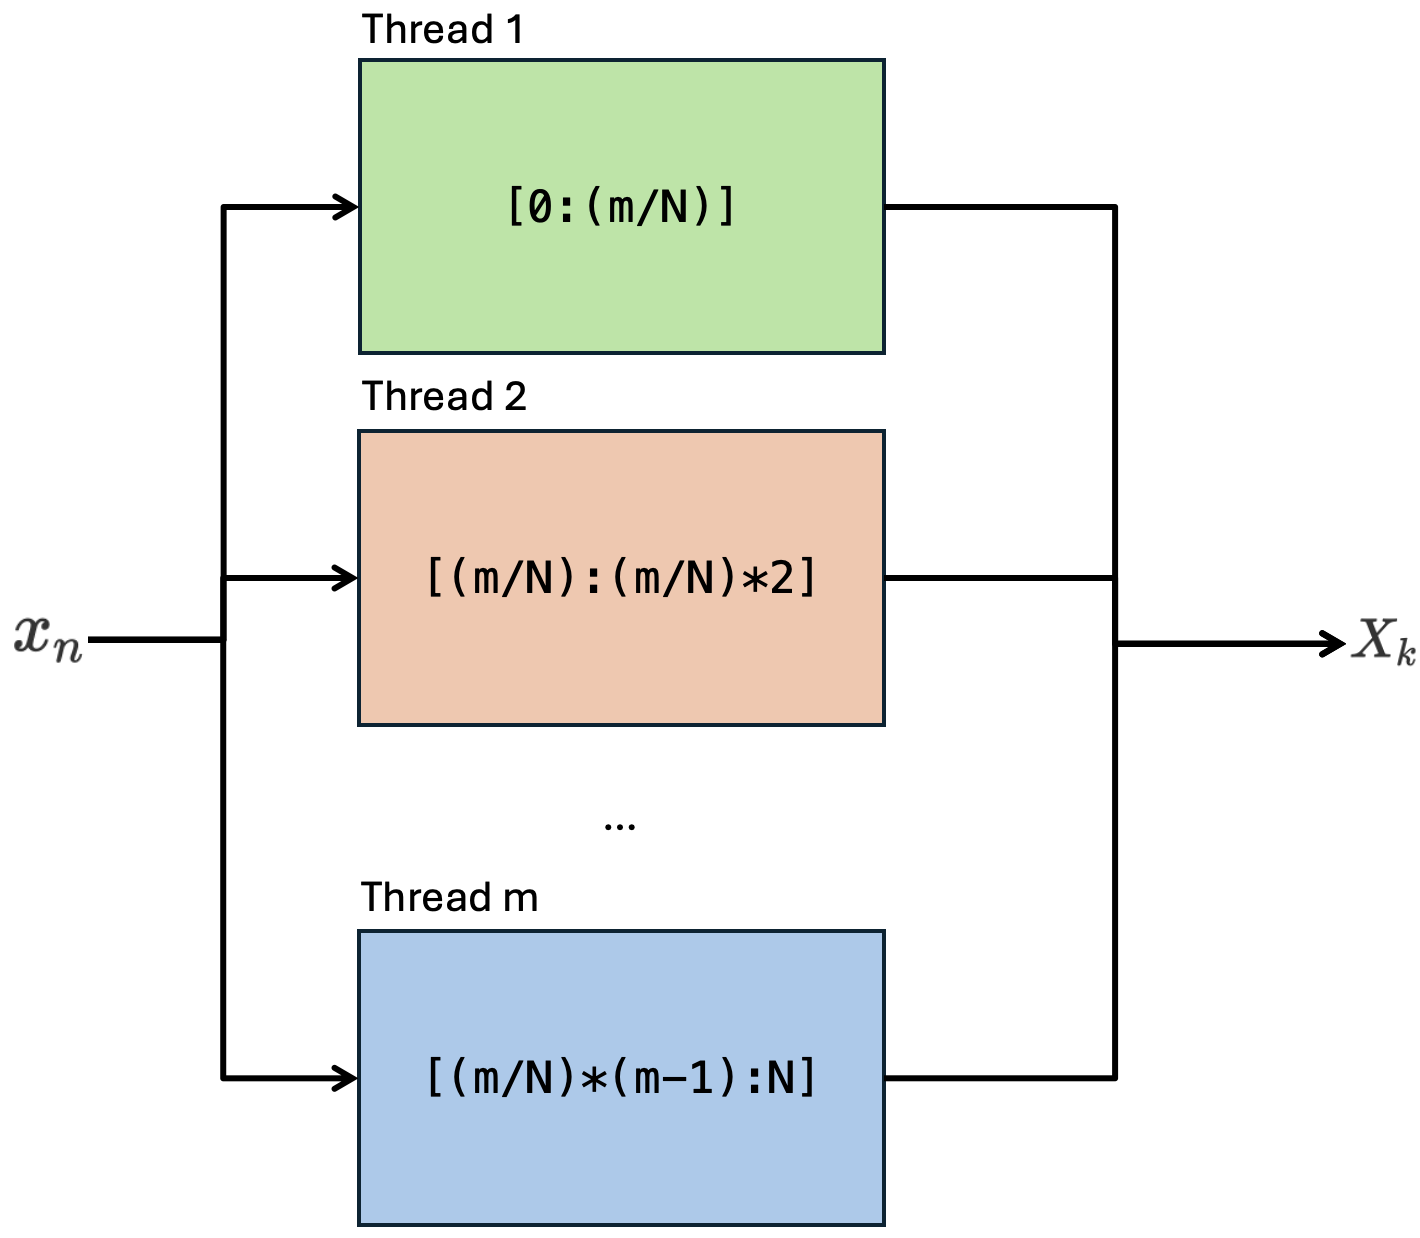
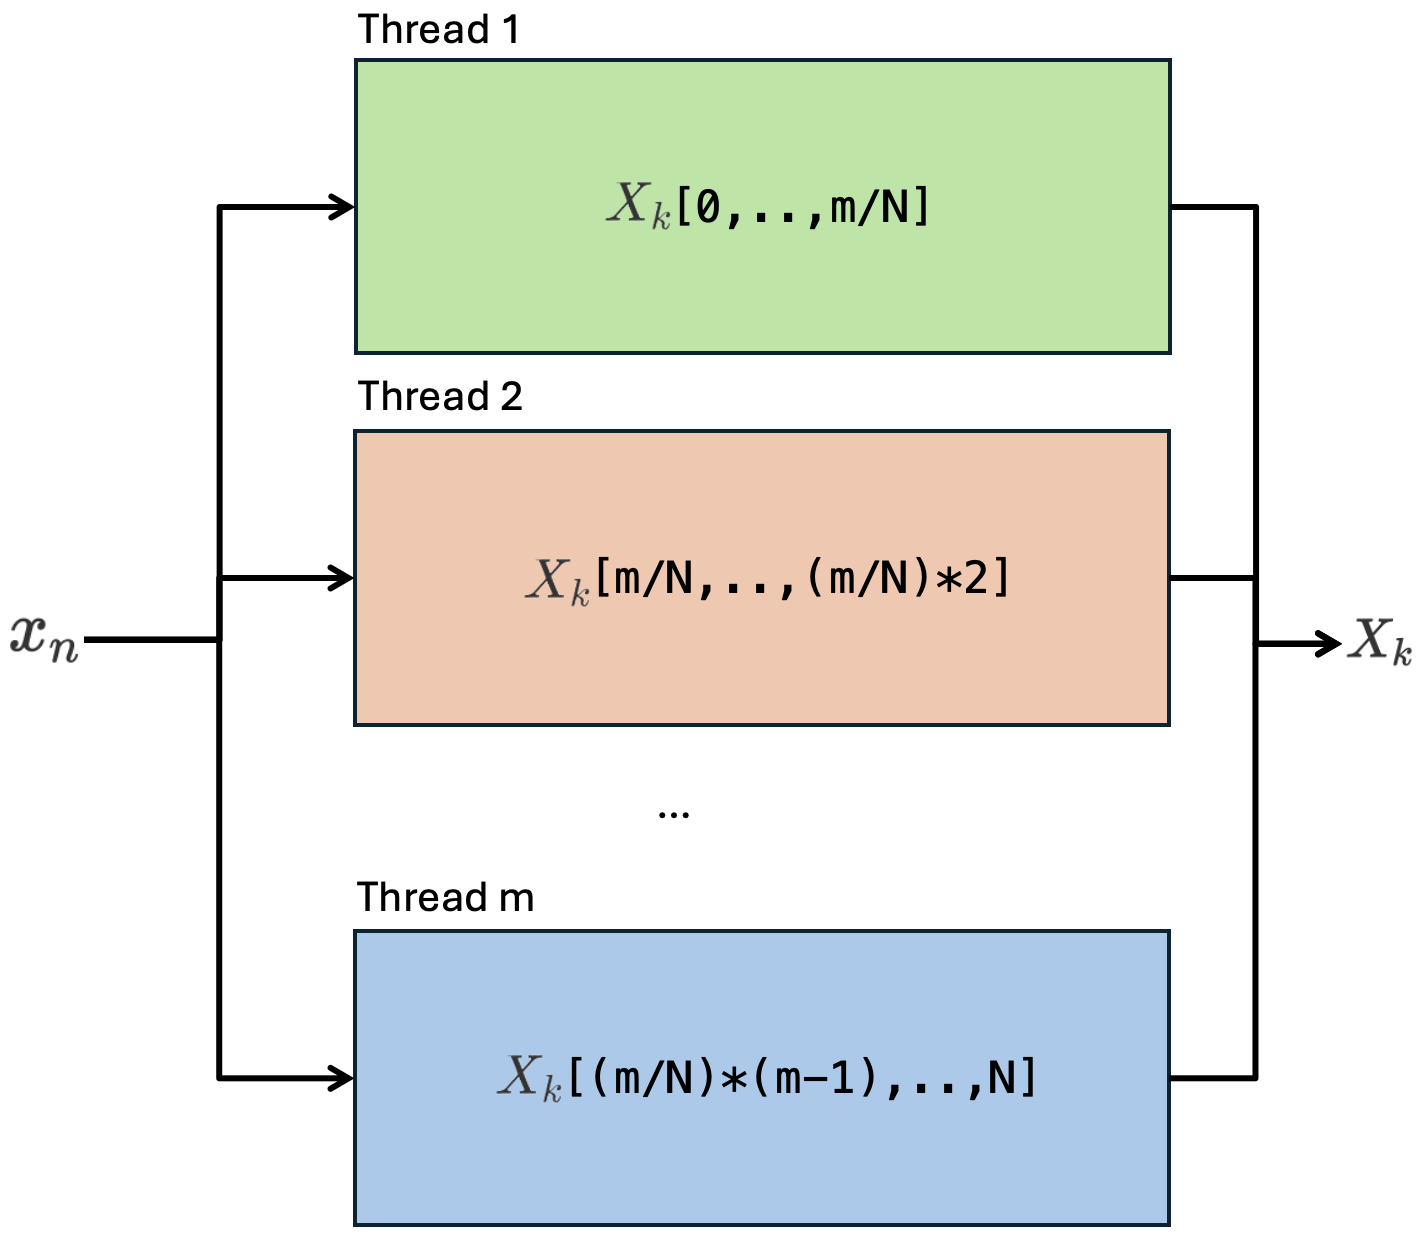
raffinato il report

diff --git a/hw1/report/report.md b/hw1/report/report.md
@@ -45,9 +45,11 @@ Since it's a sum of $N$ elements, it can be splitted into $m$ different threads,
 
 <div style="display: flex; align-items: center; width: 100%;">
   <figure style="display: flex; flex-direction: column; justify-content: center; align-items: center;">
-    <img src="./images/omp.png" alt="OMP" width="80%" />
+    <img src="./images/omp.png" alt="OMP" width="70%" />
   </figure>
 </div>
+
+So, $X_k$ will be an array with $N$ cells, and each sub-section of it will be handled by a different thread
 
 # Implementation details in SW2 👨🏻💻
 lorem ipsum
